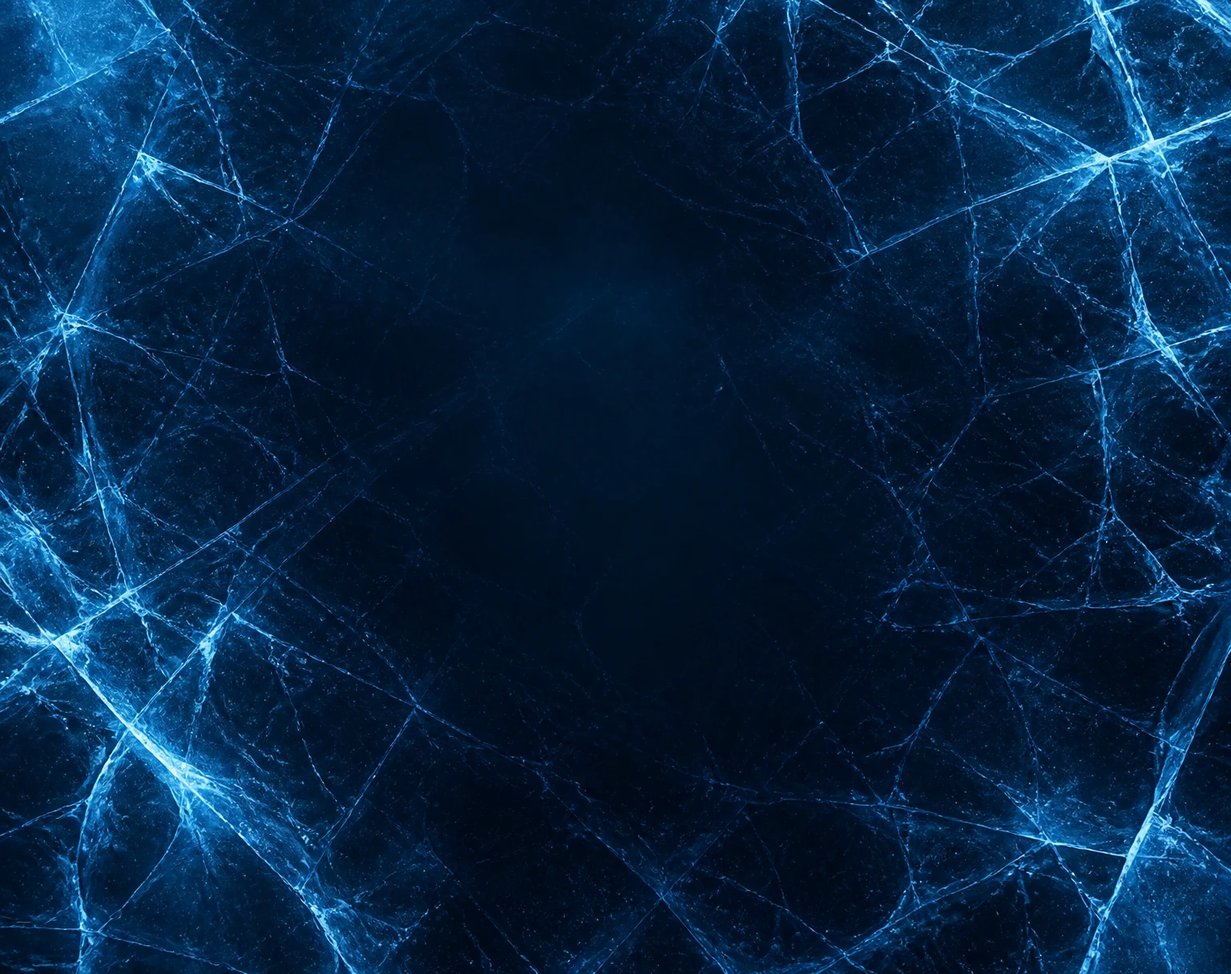
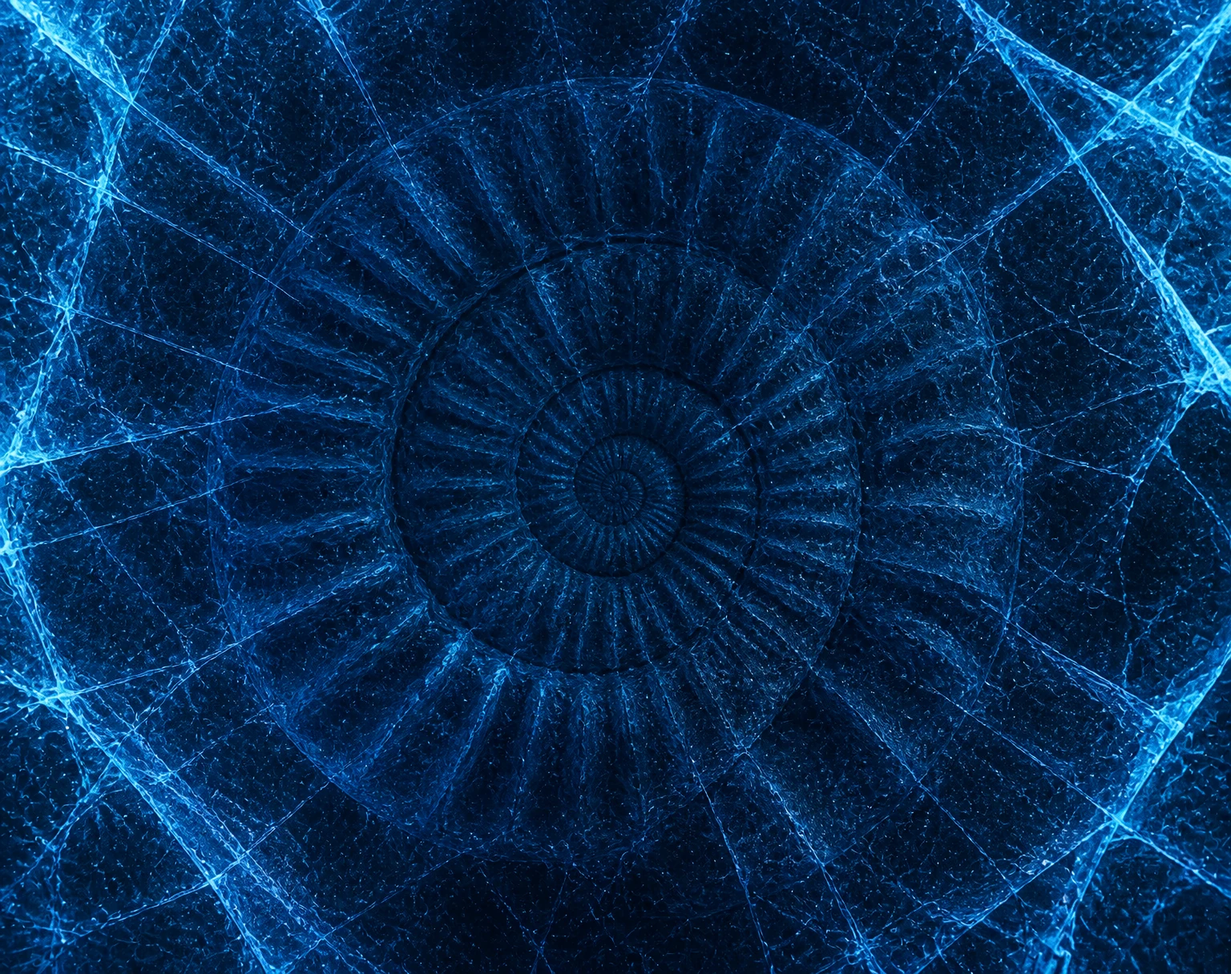
feat: freeze the fossil into the ice instead of laying it on top
The spiral shipped first as a separate centred sticker over a clean plane,
and the owner named what that looked like: "it looks like it was placed onto
the ice... I want it to look like one with the ice." The smooth quiet centre
composed for title contrast was itself what isolated it.

Re-rolled the plane with two references — the previous plane and the ammonite
cutout — so one image carries both. Bigger, centred, with cracks running
across the spiral and out the other side, so the fossil and the ice read as
one surface that fractured together.

The texture cost title-band contrast 12.96:1 -> 9.80:1 mean, still well clear
of the 3:1 floor display type needs, and roughly doubled centre detail
(std 17 -> 36). Composited it is better than before on both lines: the h1
measures 14.38:1 and the lede 8.00:1.

The lede's absolute positioning is removed. It only existed because the
bright sticker pushed it to 3.47:1 against the 4.5:1 body-text floor; the
embedded fossil is dark blue ice rather than bright cyan, so the line sits
back under the title in normal flow and passes comfortably.

.plate--disc stays, at opacity 0, holding the free-standing cutout. It is the
next beat rather than dead markup — it fades in over the embedded fossil and
turns, the spiral releasing from the ice — and keeping it now means the layer
order is settled before the spin is built.

diff --git a/src/styles/music.css b/src/styles/music.css
@@ -9,13 +9,26 @@
 .page-hero .lede { margin-inline: auto; }
 
 /* ── The spiral ──────────────────────────────────────────────────────────
-   The hero is a held plane of ice with the ammonite centred on it and the
-   title over the top. Three layers, and the ORDER is the point: the disc sits
-   between the ice and the copy, so bone type reads over the spiral rather
-   than the spiral covering it. That needs the copy above the disc, which the
-   base z-order does not give us — .plate--copy is z2 and anything added would
-   land on z3, over the title. So both are declared here explicitly. */
-.page-hero .plate--disc { z-index: 2; --rate: -170; }
+   The fossil is FROZEN INTO the ice plane, not laid on top of it. An earlier
+   version had it as a separate centred sticker over a clean plane, and the
+   owner was right about what that looked like: "it looks like it was placed
+   onto the ice... I want it to look like one with the ice." The smooth quiet
+   centre I had composed for title contrast was exactly what isolated it.
+
+   Now one image carries both: cracks run across the spiral and out the other
+   side, so the fossil and the ice are visibly one surface that fractured
+   together. Title-band contrast went 12.96:1 -> 9.80:1 mean (4.02:1 at p95)
+   for the added texture, still well clear of the 3:1 floor display type
+   needs, and centre detail roughly doubled (std 17 -> 36).
+
+   .plate--disc stays in the markup and is INVISIBLE at rest. It holds the
+   free-standing ammonite cutout, which is the next beat: as the scroll starts
+   it fades in over the embedded fossil at the same size and centre and begins
+   to turn — the spiral releasing from the ice. It is kept here rather than
+   added later so the layer order is settled now: the disc sits between the
+   ice and the copy, so the title reads over the spiral instead of the spiral
+   covering the title. */
+.page-hero .plate--disc { z-index: 2; --rate: -170; opacity: 0; }
 .page-hero .plate--copy { z-index: 3; }
 
 /* The disc is a centred SQUARE, not a full-bleed plate, so it cannot use the
@@ -35,35 +48,6 @@
   background: transparent;
 }
 .page-hero .plate--disc > .frame > img { width: 100%; height: 100%; object-fit: contain; }
-
-/* The title sits ON the spiral and the lede sits BELOW it, which is a
-   legibility decision, not a taste one. Measured over the disc at 1440x900:
-   the h1 reads 6.15:1 against its backdrop, comfortably past the 3:1 floor
-   display type needs — but the lede is small AND a muted colour, and it only
-   reached 3.47:1 against the 4.5:1 body-text floor even after the disc's core
-   was graded down. Darkening the disc far enough to fix it would have killed
-   the thing the page is about. So the one line steps off the disc onto the
-   dark ice instead, which costs nothing and fixes it outright.
-
-   It is PINNED to the disc's own radius rather than nudged by a tuned
-   offset. The first version used a multiple of --disc-size that cleared at
-   1440x900 and overlapped at 390x844 and 744x1000 — one number tuned at one
-   viewport, which is the bug this formulation cannot have. The plate's 50% is
-   the viewport centre (the plate is inset -12% top and bottom), the disc is
-   centred on it, so disc-bottom is exactly 50% + half the diameter. */
-/* NOTE: .plate--copy is NOT given position: relative here. It is already
-   position: absolute from .plate, which makes it a containing block already —
-   and re-declaring it relative pulls the whole plate out of its inset and
-   sends the copy to the top of the section. Measured: the lede jumped from
-   below the disc to y=117. */
-.page-hero .lede {
-  position: absolute;
-  top: calc(50% + var(--disc-size) / 2 + clamp(18px, 3vh, 34px));
-  left: 50%;
-  width: min(92%, 52ch);
-  transform: translateX(-50%);
-  margin: 0;
-}
 
 /* The coverflow's off-center covers sit outside .cf-stage's own box by design
    (that's the fanned "peek" of the neighbours) and .cf-stage has no overflow

diff --git a/docs/superpowers/specs/2026-09-17-music-recursion-spiral-design.md b/docs/superpowers/specs/2026-09-17-music-recursion-spiral-design.md
@@ -256,20 +256,40 @@ otherwise now wrong:**
    roll as `--ref` so the geometry survived and only the material changed:
    warmth went from +16 to **-110.7** R-B, and the disc still gates clean
    (aspect 0.996, centroid 0.499/0.500, matte 0.42% partial).
-2. **The plane is CLEAN and the disc is a centred sticker** — the imprint is
-   not embedded in the ice and does not lift out of it. The owner asked for
-   the plane as background with the fossil centred over it. If the lift-out is
-   ever wanted back, the plane needs a second version carrying the imprint.
+2. **The fossil is FROZEN INTO the plane after all** — §5's original call,
+   arrived at the long way. It shipped first as a separate centred sticker
+   over a clean plane, and the owner named exactly what that looked like:
+   *"it looks like it was placed onto the ice... I want it to look like one
+   with the ice, add some more cracks and texture all over the background and
+   near it, it should match the background almost."* The smooth quiet centre
+   composed for title contrast was itself what isolated the fossil.
 
-**A third change was forced by measurement, not preference.** The lede is
-small and a muted colour, and over the disc it reached only 3.47:1 against the
-4.5:1 body-text floor even after the disc's core was graded down 118 -> 70.
-The h1 was fine at 6.15:1, since display type only needs 3:1. So the title
-stays on the spiral and the lede steps below it onto the dark ice, where it
-measures **8.41:1**. It is pinned to `calc(50% + var(--disc-size)/2 + ...)`
-rather than nudged by a tuned offset — the first attempt used a multiplier
-that cleared at 1440x900 and overlapped at 390x844 and 744x1000. Verified
-24-32px of clearance at five viewports.
+   Re-rolled with TWO references — the previous plane and the ammonite cutout
+   — so one image carries both: bigger, centred, with cracks running across
+   the spiral and out the other side so the fossil and the ice are visibly one
+   surface that fractured together. Title-band contrast paid 12.96:1 -> 9.80:1
+   mean (4.02:1 at p95) for the texture, still well clear of the 3:1 display
+   floor, and centre detail roughly doubled (std 17 -> 36). Composited, the h1
+   reads **14.38:1** and the lede **8.00:1**, both better than before.
+
+   `.plate--disc` stays in the markup carrying the free-standing cutout, at
+   `opacity: 0`. It is the next beat, not dead markup: as the scroll starts it
+   fades in over the embedded fossil at the same centre and begins to turn —
+   the spiral releasing from the ice, which is what §3 always described. Its
+   layer order is settled now so the spin does not have to restructure
+   anything later.
+
+**A third change was made and then REVERTED, which is worth recording.** While
+the fossil was a bright sticker, the lede measured only 3.47:1 over it against
+the 4.5:1 body-text floor, so it was moved below the disc and pinned to
+`calc(50% + var(--disc-size)/2 + ...)`. (The first attempt at that used a
+multiplier tuned at 1440x900 which overlapped at 390x844 and 744x1000 — one
+number tuned at one viewport. Pinning it to the disc's own radius fixed it,
+24-32px clear at five viewports.) Embedding the fossil made all of it moot:
+the spiral is now dark blue ice rather than a bright cyan disc, so the lede
+sits back under the title in normal flow and measures 8.00:1. The absolute
+positioning is gone. **Noted because it will look like an obvious thing to
+re-add if the disc is ever brightened again — and then it will be needed.**
 
 **Known trade:** the plane's bright fractures are deliberately concentrated at
 the frame edges to keep the centre quiet for the title, and at 390x844 only
